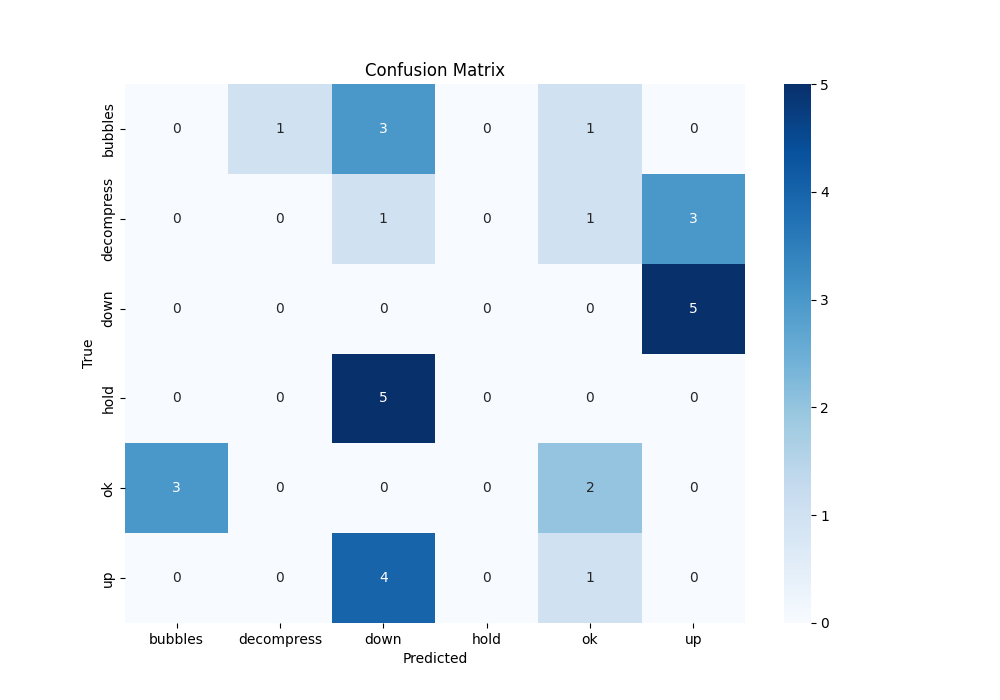
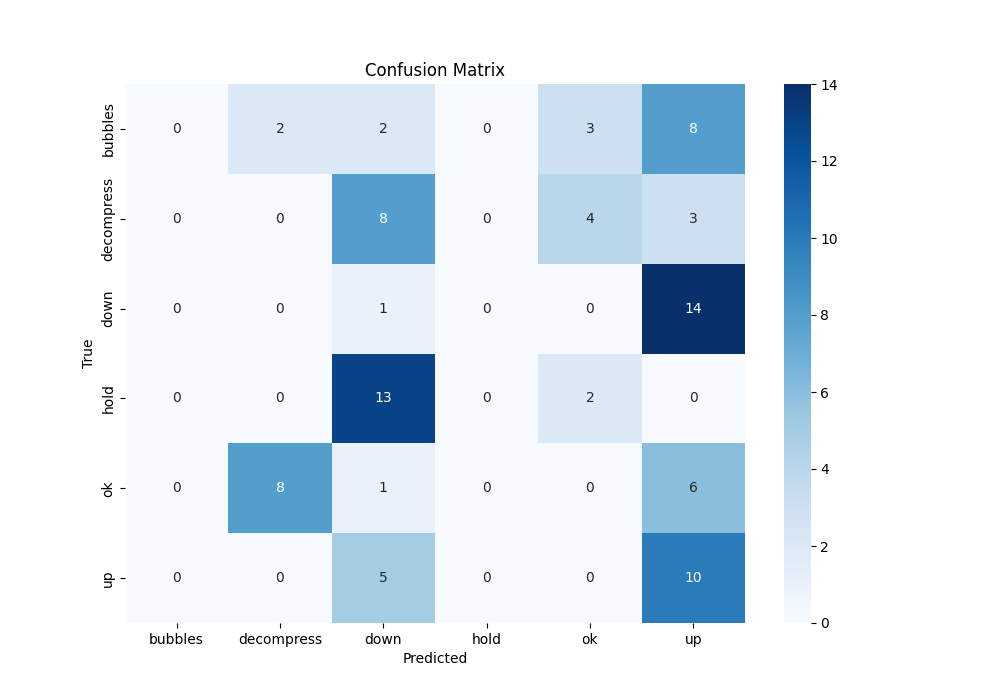
debug

diff --git a/template.py b/template.py
@@ -23,22 +23,22 @@ def extract_template(img_path):
     return cropped_template
 
 for sign in ['bubbles', 'decompress', 'up', 'down', 'hold', 'ok']:
-    for i in range(1,6):
-        template_file = f'{img_path}/{sign}{i}.jpg'
+    for i in range(1, 6):
+        template_file = f'{img_path}/{sign}-{i}.jpg'
         hand_template = extract_template(template_file)
         h, w = hand_template.shape
         new_dim = (h//3, w//3)
         new_img = cv2.resize(hand_template, new_dim)
-        cv2.imwrite(rf'{template_path}\{sign}_template{i}.jpg', new_img)
+        cv2.imwrite(rf'{template_path}/{sign}_template{i}.jpg', new_img)
 
 
-# # resize the template to a smaller dimension
-# for filename in os.listdir(template_path):        
-#     img = cv2.imread(rf'{template_path}\{filename}')
-#     h, w, _ = img.shape
-#     new_dim = (h//3, w//3)
-#     new_img = cv2.resize(img, new_dim)
-#     cv2.imwrite(rf'{template_path}\{filename}', new_img)
+# resize the template to a smaller dimension
+for filename in os.listdir(template_path):        
+    img = cv2.imread(rf'{template_path}/{filename}')
+    h, w, _ = img.shape
+    new_dim = (h//3, w//3)
+    new_img = cv2.resize(img, new_dim)
+    cv2.imwrite(rf'{template_path}/{filename}', new_img)
 
 # img = cv2.imread(os.path.join(img_path, ok_img), cv2.IMREAD_COLOR)
 # cv2.imshow("image", img)

diff --git a/main.py b/main.py
@@ -8,6 +8,7 @@ import os
 
 img_path = 'data'
 template_path = 'templates'
+template_path = 'old_templates'
 # for filename in os.listdir(template_path):        
 #     print(filename)
 
@@ -50,7 +51,7 @@ class ImageHandler:
 
     # Resize the image
     def resize_img(self, img, size):
-        size = [size[1], size[0], size[2]]
+        size = [size[1], size[0], size[2]]  # [h, w, c]
         mask = np.zeros(size, dtype=np.uint8)
         h, w = img.shape[0:2]
     
@@ -63,6 +64,8 @@ class ImageHandler:
         else:
             dxy = int((size[0] - img.shape[0]) / 2)
             mask[dxy:img.shape[0] + dxy, :, :] = img
+        
+        # print(mask.shape)
         return mask
 
     # Create the binary image
@@ -171,9 +174,9 @@ class ImageHandler:
  
     # Entrance
     def get_hand(self, img):
-        self.img = img
-        if self.img.shape[0] != 480 and self.img.shape[1] != 640:
-            self.img = self.resize_img(img, [640, 480, 3])
+        self.img = img  # [h, w, c]
+        if self.img.shape[0] != 480 and self.img.shape[1] != 480:
+            self.img = self.resize_img(img, [480, 480, 3])
         self.src_img = np.copy(self.img)
         self.output_img = np.copy(self.img)
 

diff --git a/test.py b/test.py
@@ -18,7 +18,7 @@ class ImageTester:
     def load_and_predict(self):
         for file_name in os.listdir(self.test_folder):
             if file_name.endswith(('.jpg', '.png')):
-                true_label = file_name.split('_')[0]  # Assuming format "label_number.jpg/.png"
+                true_label = file_name.split('-')[0]  # Assuming format "label_number.jpg/.png"
                 true_label_idx = self.label_map[true_label]
 
                 img_path = os.path.join(self.test_folder, file_name)
